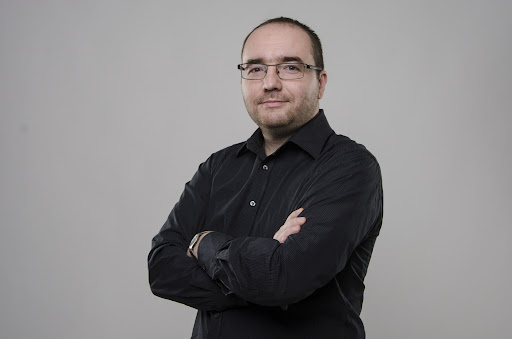
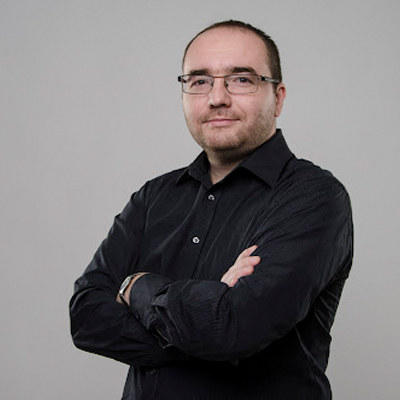
Added resized photo

diff --git a/templates/teams.html b/templates/teams.html
@@ -6,73 +6,91 @@
     <div class="row justify-content-center border-bottom text-center mt-1">
         <h3>Team</h3>
     </div>
+    <br>
     <div class="row justify-content-center">
-        <div class="col-md-6">
-            <div class="row justify-content-center" style="margin-top: 10px;">
-                <img class="team-img" src="{% static 'images/brian.jpg'%}" alt="">
-            </div>
-            <div class="row justify-content-center">
-                <h5 style="text-align: center;"><i>Brian Lyew</i></h5>
-            </div>
-            <div class="row justify-content-center">
-                <p style="text-align: center;"><i>Founder of Dieseinerdata, Brian Lyew is the founder of Dieseinerdata
-                        focused
-                        on leadership and vision for associate and client needs.</i></p>
+        <div class="col-md-6 team-column">
+            <div class="card">
+                <div class="row justify-content-center" style="">
+                    <img class="team-img" src="{% static 'images/brian.jpg'%}" alt="">
+                </div>
+                <div class="row justify-content-center">
+                    <h5 style="text-align: center;"><i>Brian Lyew</i></h5>
+                </div>
+                <div class="row justify-content-center">
+                    <p style="text-align: center;"><i>Founder of Dieseinerdata, Brian Lyew is the founder of
+                            Dieseinerdata
+                            focused
+                            on leadership and vision for associate and client needs.</i></p>
+                </div>
             </div>
         </div>
     </div>
 
     <div class="row justify-content-center">
-        <div class="col-md-6">
-            <div class="row justify-content-center" style="margin-top: 10px;">
-                <img class="team-img" src="{% static 'images/emir.jpg'%}" alt="">
-            </div>
-            <div class="row justify-content-center">
-                <h5 style="text-align: center;"><i>Emir Hodzic</i></h5>
-            </div>
-            <div class="row justify-content-center">
-                <p style="text-align: center;"><i>One of our original Dieseiners at Dieseinerdata, Emir is a computer
-                        programmer focused on clients with needs for web scraping and data pipeline automation.</i></p>
+        <div class="col-md-6 team-column">
+            <div class="card">
+                <div class="row justify-content-center" style="">
+                    <img class="team-img" src="{% static 'images/emir.jpg'%}" alt="">
+                </div>
+                <div class="row justify-content-center">
+                    <h5 style="text-align: center;"><i>Emir Hodzic</i></h5>
+                </div>
+                <div class="row justify-content-center">
+                    <p style="text-align: center;"><i>One of our original Dieseiners at Dieseinerdata, Emir is a
+                            computer
+                            programmer focused on clients with needs for web scraping and data pipeline automation.</i>
+                    </p>
+                </div>
             </div>
         </div>
-        <div class="col-md-6">
-            <div class="row justify-content-center" style="margin-top: 10px;">
-                <img class="team-img" src="{% static 'images/slobodan.jpg'%}" alt="">
+        <div class="col-md-6 team-column">
+            <div class="card">
+                <div class="row justify-content-center">
+                    <img class="team-img" src="{% static 'images/slobodan.jpg'%}" alt="">
+                </div>
+                <div class="row justify-content-center">
+                    <h5 style="text-align: center;"><i>Slobodan Oruc</i></h5>
+                </div>
+                <div class="row justify-content-center">
+                    <p style="text-align: center;"><i>One of the original Dieseiners at Dieseinerdata, Slobodan is a
+                            computer programmer focused on clients with needs for Excel VBA Macro business process
+                            automation.</i></p>
+                </div>
             </div>
-            <div class="row justify-content-center">
-                <h5 style="text-align: center;"><i>Slobodan Oruc</i></h5>
-            </div>
-            <div class="row justify-content-center">
-                <p style="text-align: center;"><i>One of the original Dieseiners at Dieseinerdata, Slobodan is a
-                        computer programmer focused on clients with needs for Excel VBA Macro business process
-                        automation.</i></p>
-            </div>
+
         </div>
     </div>
     <div class="row justify-content-cente">
-        <div class="col-md-6">
-            <div class="row justify-content-center" style="margin-top: 10px;">
-                <img class="team-img" src="{% static 'images/irfan.jpg'%}" alt="">
-            </div>
-            <div class="row justify-content-center">
-                <h5 style="text-align: center;"><i>Fahim Irfan</i></h5>
-            </div>
-            <div class="row justify-content-center">
-                <p style="text-align: center;"><i>A Dieseiner at Dieseinerdata, Fahim is a computer programmer focused
-                        on clients with needs for Python Django web application development, and business analytics data
-                        visualizations</i></p>
+        <div class="col-md-6 team-column">
+            <div class="card">
+                <div class="row justify-content-center">
+                    <img class="team-img" src="{% static 'images/irfan.jpg'%}" alt="">
+                </div>
+                <div class="row justify-content-center">
+                    <h5 style="text-align: center;"><i>Fahim Irfan</i></h5>
+                </div>
+                <div class="row justify-content-center">
+                    <p style="text-align: center;"><i>A Dieseiner at Dieseinerdata, Fahim is a computer programmer
+                            focused
+                            on clients with needs for Python Django web application development, and business analytics
+                            data
+                            visualizations</i></p>
+                </div>
             </div>
         </div>
-        <div class="col-md-6">
-            <div class="row justify-content-center" style="margin-top: 10px;">
-                <img class="team-img" src="{% static 'images/sasa.jpg'%}" alt="">
-            </div>
-            <div class="row justify-content-center">
-                <h5 style="text-align: center;"><i>Sasa Kanjuh</i></h5>
-            </div>
-            <div class="row justify-content-center">
-                <p style="text-align: center;"><i>A Dieseiner at Dieseinerdata, Sasa is a computer programmer focused on
-                        clients with needs for Python and Bash scripting and automation.</i></p>
+        <div class="col-md-6 team-column">
+            <div class="card">
+                <div class="row justify-content-center">
+                    <img class="team-img" src="{% static 'images/dusan.jpg'%}" alt="">
+                </div>
+                <div class="row justify-content-center">
+                    <h5 style="text-align: center;"><i>SDusan Miljkovic</i></h5>
+                </div>
+                <div class="row justify-content-center">
+                    <p style="text-align: center;"><i>A Dieseiner at Dieseinerdata, Dusan is a graphics designer focused
+                            on
+                            clients with visual and graphic design needs.</i></p>
+                </div>
             </div>
         </div>
     </div>

diff --git a/static/customs/css/master.css b/static/customs/css/master.css
@@ -177,17 +177,49 @@
 }
 
 .team {
-  width: 300px;
-  height: 300px;
+  width: 100%;
+  height: 50%;
 }
 
 .team-img {
   vertical-align: middle;
-  height: 100%;
+  height: 50%;
   width: 100%;
   /* border-radius: 50%; */
 }
 
+.team-column {
+  float: left;
+  width: 50%;
+  margin-bottom: 16px;
+  padding: 0 8px;
+}
+
+@media screen and (max-width: 650px) {
+  .team-column {
+    width: 100%;
+    display: block;
+  }
+}
+
+.card {
+  box-shadow: 0 4px 8px 0 rgba(0, 0, 0, 0.2);
+}
+
+.container {
+  padding: 0 16px;
+}
+
+.container::after, .row::after {
+  content: "";
+  clear: both;
+  display: table;
+}
+
 .rating-star {
   color: #249c82;
+}
+
+.label-align {
+  text-align: end;
 }
